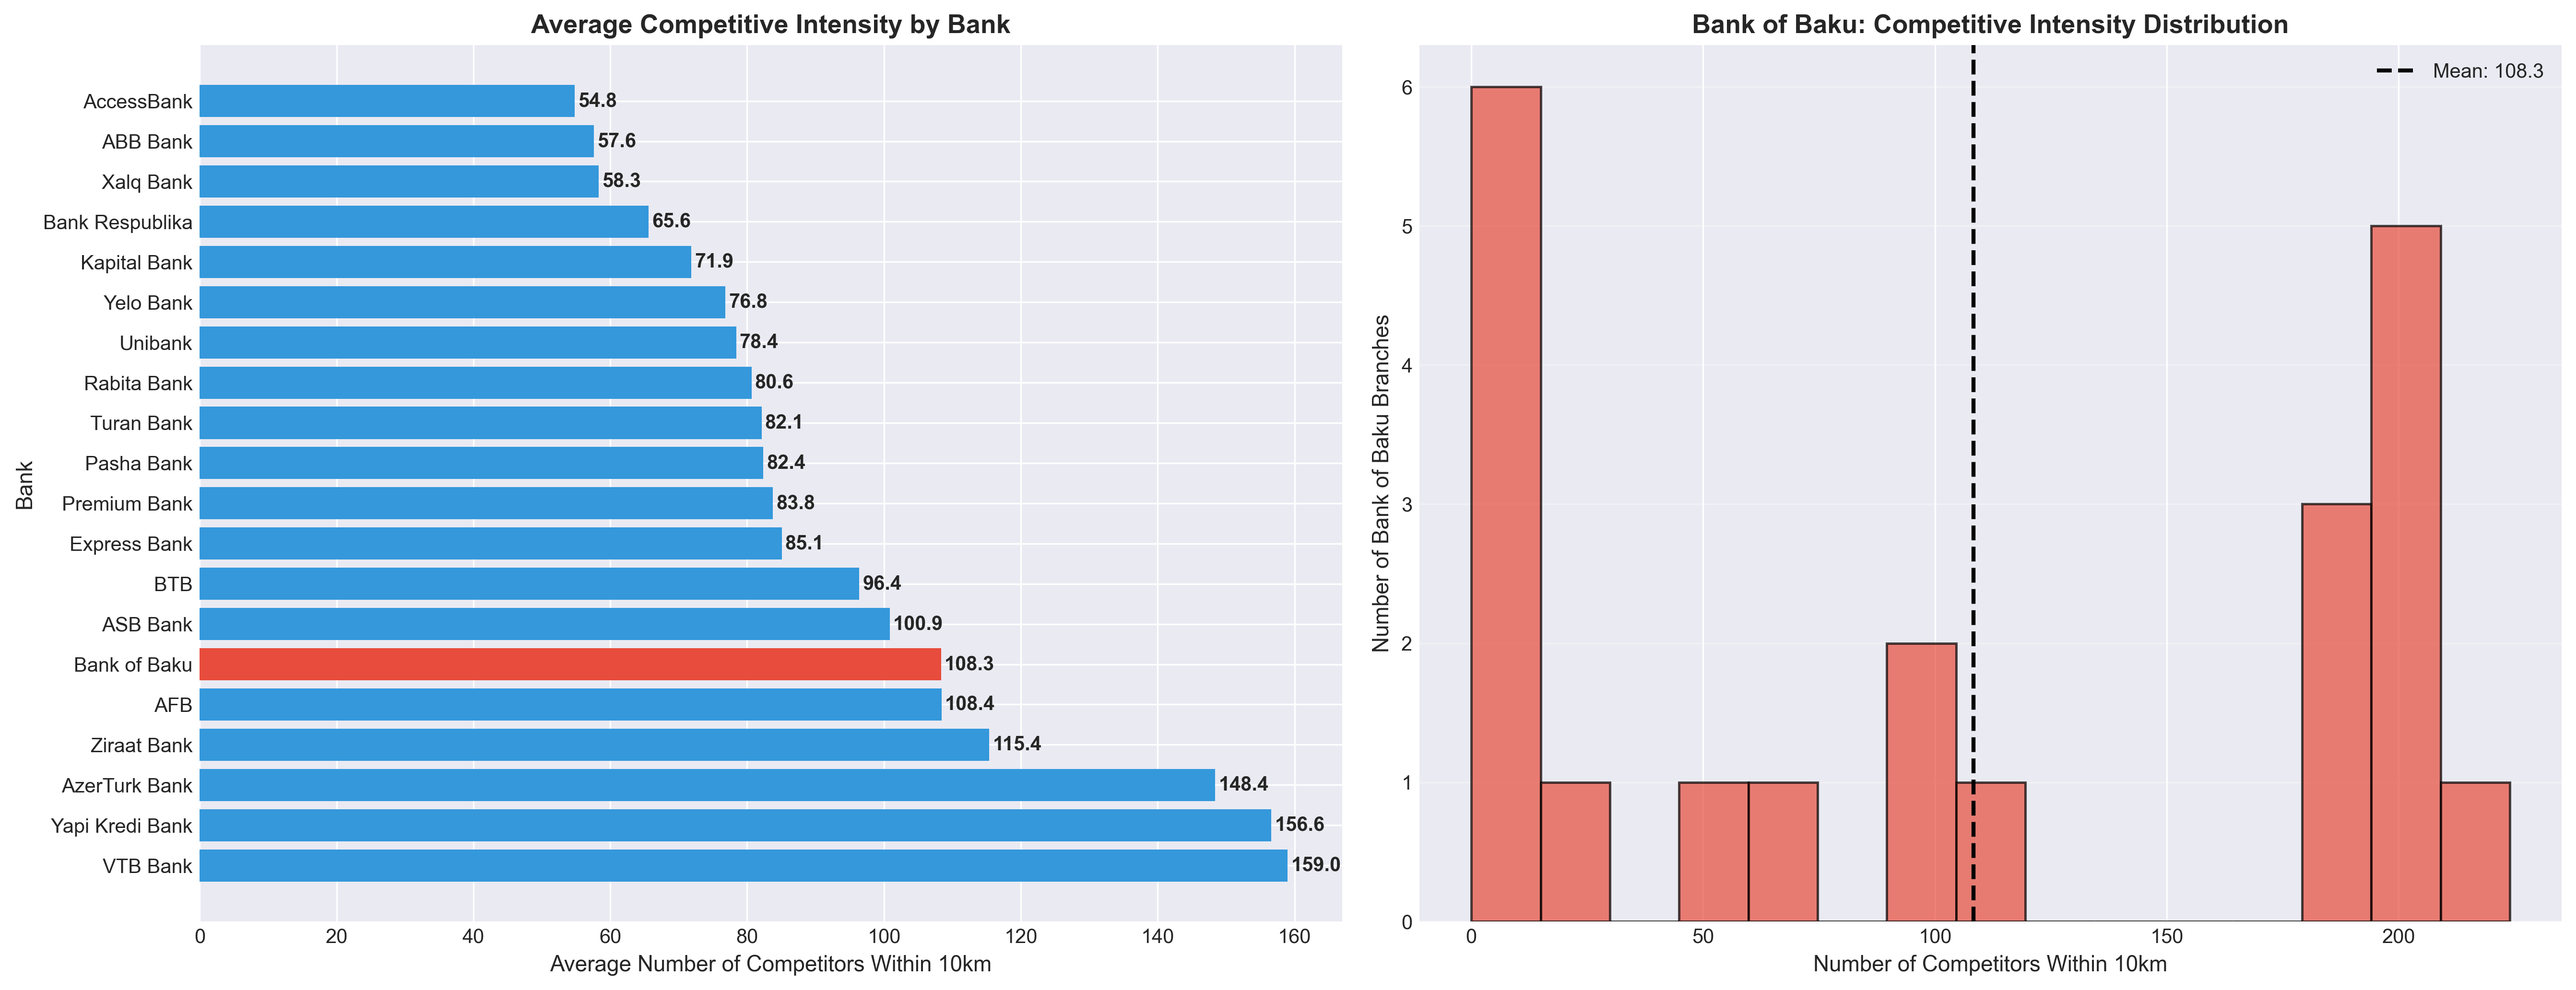
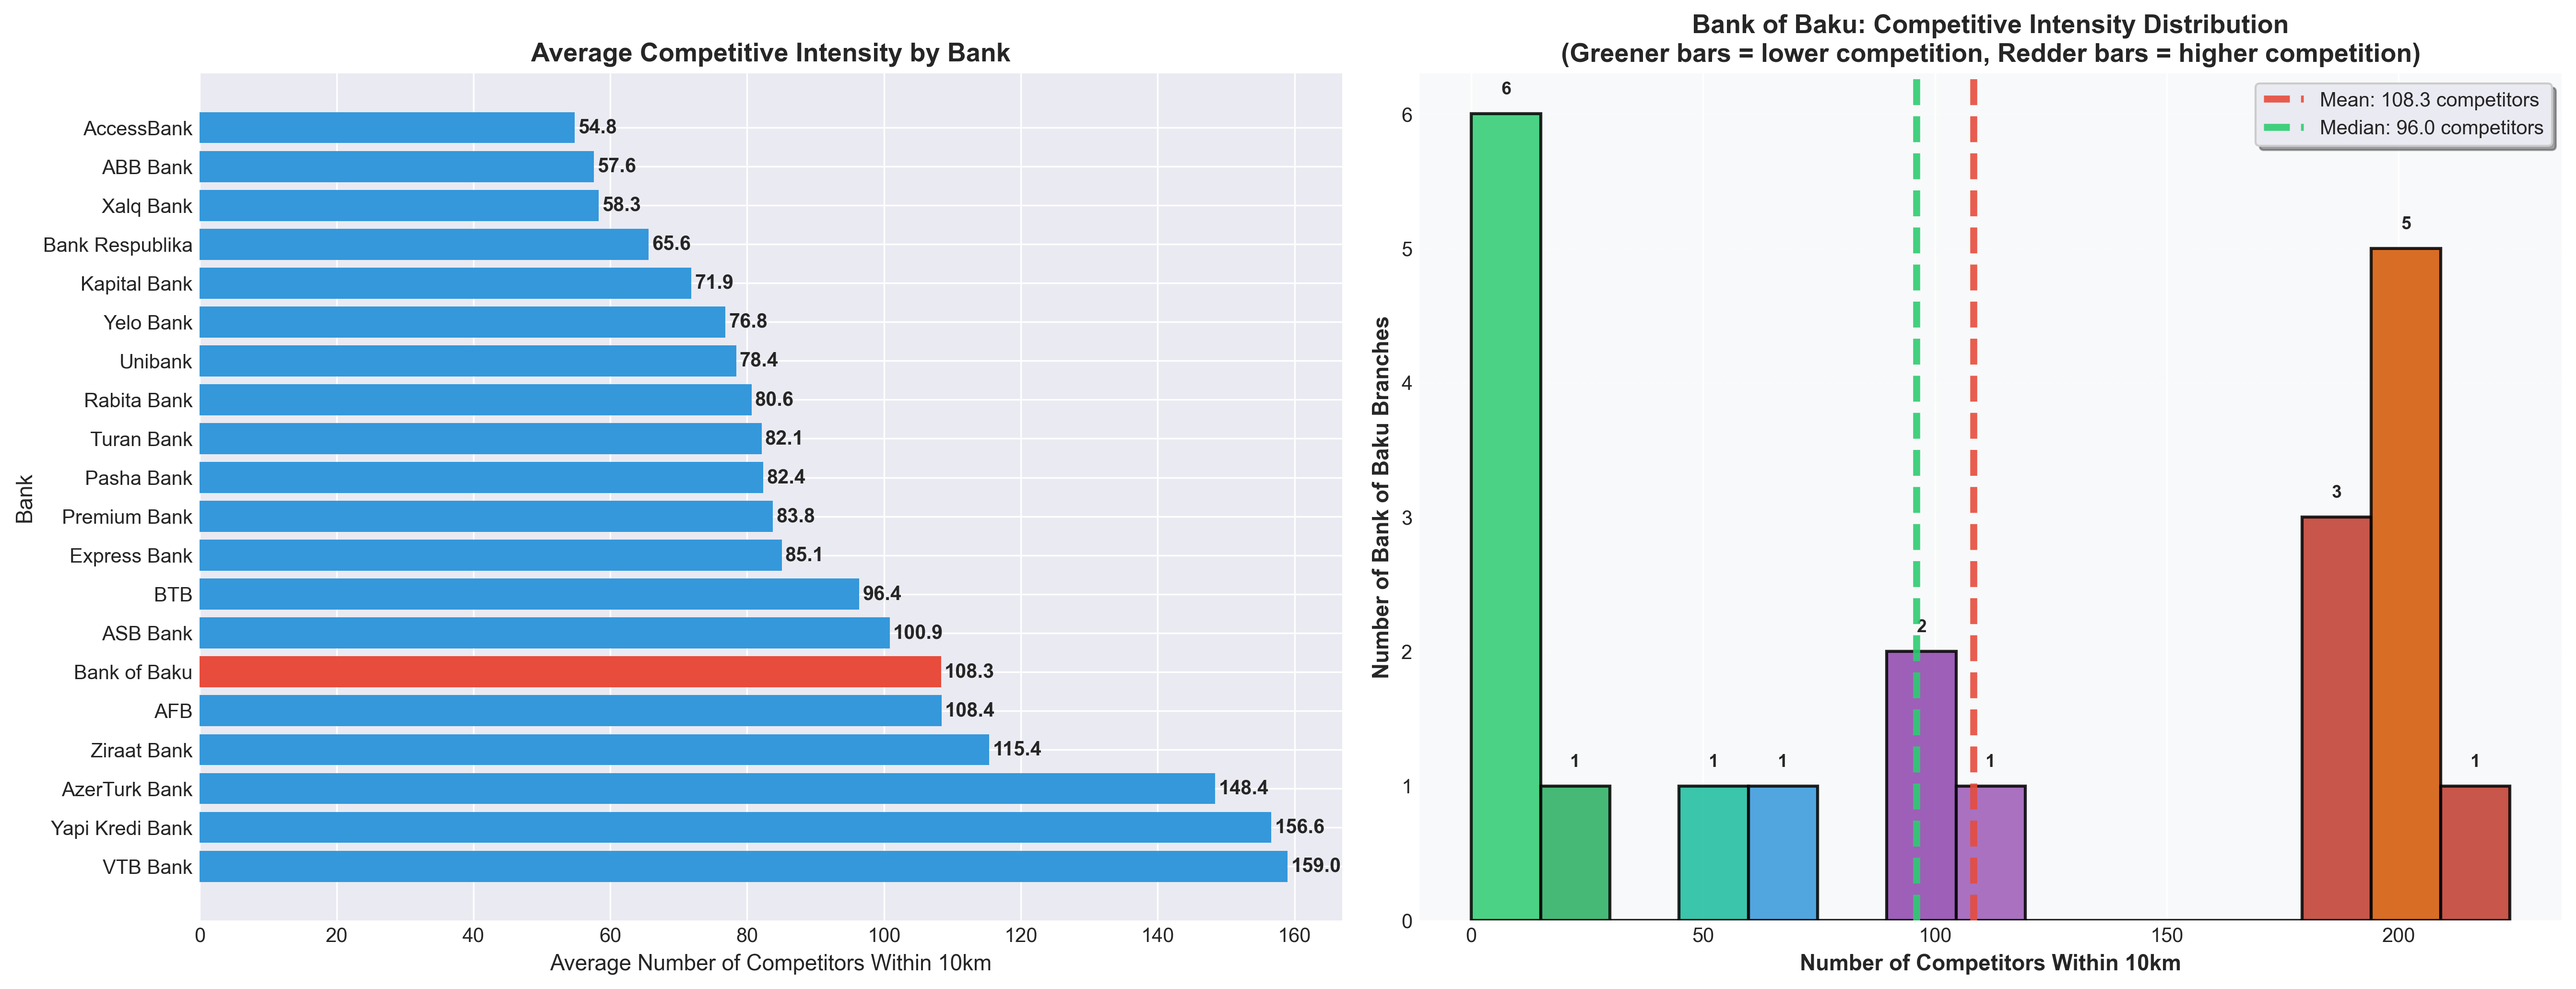
init
Source: https://github.com/GameHelix/yahtzee/commit/84aaf49bae24339613d4bfd43855b3b480c719d0

diff --git a/earlier/GameHelix/yahtzee/scripts/run_analysis.py b/earlier/GameHelix/yahtzee/scripts/run_analysis.py
@@ -623,19 +623,40 @@ bob_analysis['nearest_competitor'] = [comp_banks[i] for i in idx_comp.flatten()]
 
 fig, (ax1, ax2) = plt.subplots(1, 2, figsize=(18, 7))
 
-# Distribution of distances
-ax1.hist(bob_analysis['dist_to_competitor'], bins=20, color='#3498db',
-        alpha=0.7, edgecolor='black', linewidth=1.2)
-ax1.axvline(bob_analysis['dist_to_competitor'].mean(), color='#e74c3c',
-           linestyle='--', linewidth=2, label=f'Mean: {bob_analysis["dist_to_competitor"].mean():.3f}°')
-ax1.axvline(bob_analysis['dist_to_competitor'].median(), color='#2ecc71',
-           linestyle='--', linewidth=2, label=f'Median: {bob_analysis["dist_to_competitor"].median():.3f}°')
-ax1.set_xlabel('Distance to Nearest Competitor (degrees)', fontsize=11)
-ax1.set_ylabel('Number of Bank of Baku Branches', fontsize=11)
-ax1.set_title('Bank of Baku: Distance to Nearest Competitor Distribution',
+# Distribution of distances - Enhanced histogram
+n, bins, patches = ax1.hist(bob_analysis['dist_to_competitor'], bins=15,
+                             edgecolor='black', linewidth=1.5, alpha=0.85)
+
+# Color bars with gradient based on distance (closer = red, farther = green)
+colors = ['#e74c3c', '#e67e22', '#f39c12', '#f1c40f', '#2ecc71',
+          '#27ae60', '#16a085', '#1abc9c', '#3498db', '#2980b9',
+          '#8e44ad', '#9b59b6', '#34495e', '#7f8c8d', '#95a5a6']
+for i, patch in enumerate(patches):
+    patch.set_facecolor(colors[i % len(colors)])
+
+# Add prominent mean and median lines
+mean_val = bob_analysis['dist_to_competitor'].mean()
+median_val = bob_analysis['dist_to_competitor'].median()
+
+ax1.axvline(mean_val, color='#e74c3c', linestyle='--', linewidth=3.5,
+           label=f'Mean: {mean_val:.4f}° (~{mean_val*111:.1f}km)', zorder=10, alpha=0.9)
+ax1.axvline(median_val, color='#2ecc71', linestyle='--', linewidth=3.5,
+           label=f'Median: {median_val:.4f}° (~{median_val*111:.1f}km)', zorder=10, alpha=0.9)
+
+# Add value labels on top of bars
+for i, (count, bin_edge) in enumerate(zip(n, bins[:-1])):
+    if count > 0:
+        ax1.text(bin_edge + (bins[1]-bins[0])/2, count + max(n)*0.02,
+                int(count), ha='center', va='bottom', fontweight='bold', fontsize=9)
+
+ax1.set_xlabel('Distance to Nearest Competitor (degrees)\n[1° ≈ 111 km]',
+              fontsize=11, fontweight='bold')
+ax1.set_ylabel('Number of Bank of Baku Branches', fontsize=11, fontweight='bold')
+ax1.set_title('Bank of Baku: Distance to Nearest Competitor Distribution\n(Redder bars = closer, Greener bars = farther)',
              fontsize=13, fontweight='bold')
-ax1.legend(fontsize=10)
-ax1.grid(True, alpha=0.3, axis='y')
+ax1.legend(fontsize=10, frameon=True, fancybox=True, shadow=True, loc='upper right')
+ax1.grid(True, alpha=0.3, axis='y', linestyle='--')
+ax1.set_facecolor('#f8f9fa')
 
 # Nearest competitor frequency
 nearest_comp_counts = bob_analysis['nearest_competitor'].value_counts()
@@ -704,18 +725,39 @@ ax1.set_title('Average Competitive Intensity by Bank', fontsize=13, fontweight='
 for i, v in enumerate(intensity_comparison['Avg_Competitors_Nearby'].values):
     ax1.text(v + 0.5, i, f'{v:.1f}', va='center', fontweight='bold')
 
-# Bank of Baku intensity distribution
+# Bank of Baku intensity distribution - Enhanced histogram
 bob_intensities = intensity_data['Bank of Baku']
-ax2.hist(bob_intensities, bins=15, color='#e74c3c', alpha=0.7,
-        edgecolor='black', linewidth=1.2)
-ax2.axvline(np.mean(bob_intensities), color='black', linestyle='--',
-           linewidth=2, label=f'Mean: {np.mean(bob_intensities):.1f}')
-ax2.set_xlabel('Number of Competitors Within 10km', fontsize=11)
-ax2.set_ylabel('Number of Bank of Baku Branches', fontsize=11)
-ax2.set_title('Bank of Baku: Competitive Intensity Distribution',
+n, bins, patches = ax2.hist(bob_intensities, bins=15, edgecolor='black', linewidth=1.5, alpha=0.85)
+
+# Color bars with gradient: fewer competitors = green (good), more = red (high pressure)
+colors_intensity = ['#2ecc71', '#27ae60', '#16a085', '#1abc9c', '#3498db',
+                   '#2980b9', '#8e44ad', '#9b59b6', '#e67e22', '#f39c12',
+                   '#f1c40f', '#e74c3c', '#c0392b', '#d35400', '#c0392b']
+for i, patch in enumerate(patches):
+    patch.set_facecolor(colors_intensity[i % len(colors_intensity)])
+
+# Add prominent mean and median lines
+mean_intensity = np.mean(bob_intensities)
+median_intensity = np.median(bob_intensities)
+
+ax2.axvline(mean_intensity, color='#e74c3c', linestyle='--', linewidth=3.5,
+           label=f'Mean: {mean_intensity:.1f} competitors', zorder=10, alpha=0.9)
+ax2.axvline(median_intensity, color='#2ecc71', linestyle='--', linewidth=3.5,
+           label=f'Median: {median_intensity:.1f} competitors', zorder=10, alpha=0.9)
+
+# Add value labels on top of bars
+for i, (count, bin_edge) in enumerate(zip(n, bins[:-1])):
+    if count > 0:
+        ax2.text(bin_edge + (bins[1]-bins[0])/2, count + max(n)*0.02,
+                int(count), ha='center', va='bottom', fontweight='bold', fontsize=9)
+
+ax2.set_xlabel('Number of Competitors Within 10km', fontsize=11, fontweight='bold')
+ax2.set_ylabel('Number of Bank of Baku Branches', fontsize=11, fontweight='bold')
+ax2.set_title('Bank of Baku: Competitive Intensity Distribution\n(Greener bars = lower competition, Redder bars = higher competition)',
              fontsize=13, fontweight='bold')
-ax2.legend(fontsize=10)
-ax2.grid(True, alpha=0.3, axis='y')
+ax2.legend(fontsize=10, frameon=True, fancybox=True, shadow=True, loc='upper right')
+ax2.grid(True, alpha=0.3, axis='y', linestyle='--')
+ax2.set_facecolor('#f8f9fa')
 
 plt.tight_layout()
 plt.savefig('charts/11_competitive_intensity.png', dpi=300, bbox_inches='tight')
